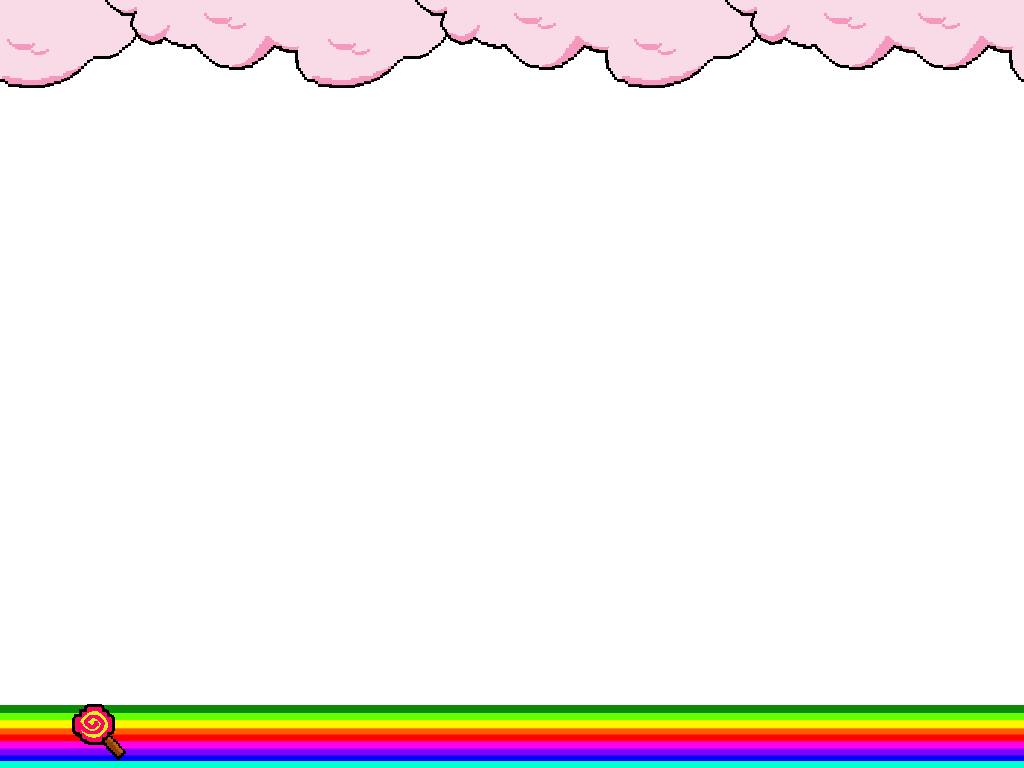
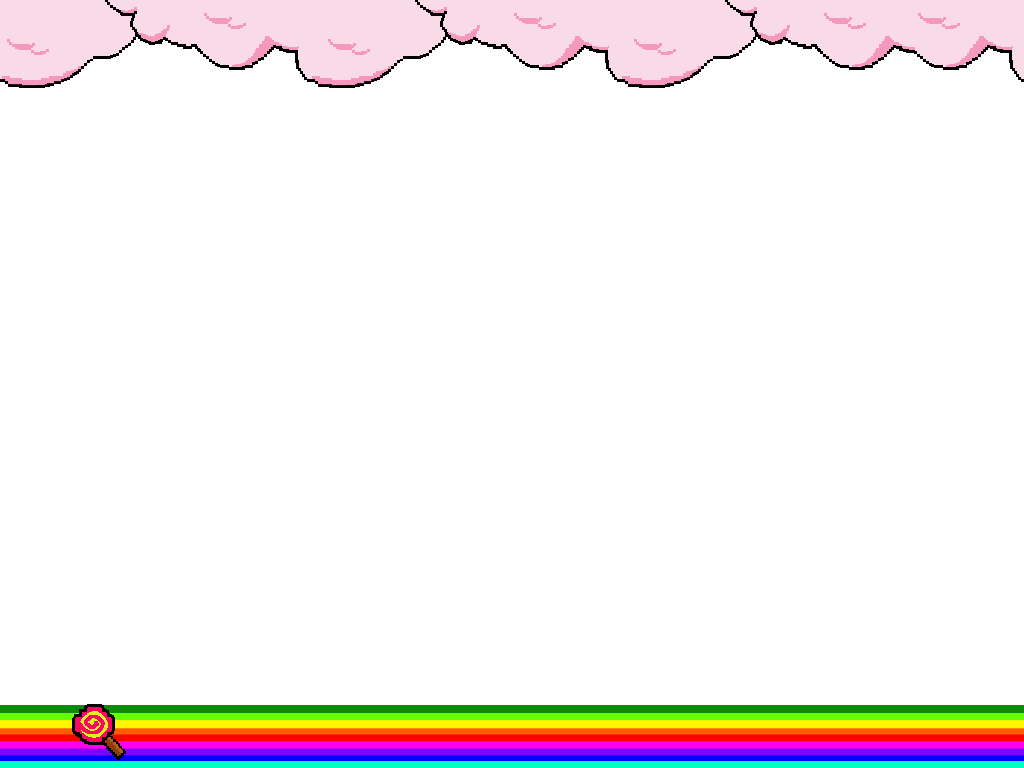
double background all the wayyyyy

Changed region(s): [[0.0, 0.9062, 1.0, 1.0], [0.8438, 0.0625, 0.875, 0.0938], [0.4375, 0.0312, 0.4688, 0.0625]]

diff --git a/app/styles/main.css b/app/styles/main.css
@@ -46,10 +46,10 @@
 	position: absolute;
 	top: 0;
 	left: 0;
-	width: 5em;
-	height: 5em;
+	width: 20em;
+	height: 20em;
 
-	background-image: url("../favicon.ico");
+	background-image: url("../images/dabs.png");
   background-repeat: no-repeat;
 }
 
@@ -107,6 +107,7 @@ padding: 0.2em 0;
   margin-left: -51.2em;
   margin-top: -28.8em;
   overflow: hidden;
+  background-color: purple;
   background: url("../images/skyAndFloor.png");
   background-size: contain;
   background-repeat: tile;
@@ -119,4 +120,21 @@ padding: 0.2em 0;
 @keyframes backgroundScroll {
 from {background-position: 0 0;}
 to {background-position: -768px 0;}
+}
+
+.GameCanvasBackground {
+  font-size: 10px;
+  position: absolute;
+  left: 50%;
+  top: 50%;
+  width: 102.4em;
+  height: 57.6em;
+  margin-left: -51.2em;
+  margin-top: -28.8em;
+  overflow: hidden;
+  background: url("http://i.imgur.com/PhFQkdl.png");
+  background-size: contain;
+  background-repeat: tile;
+  
+  animation: backgroundScroll 20s linear infinite;
 }

diff --git a/app/index.html b/app/index.html
@@ -27,6 +27,7 @@
             <p class="browsehappy">You are using an <strong>outdated</strong> browser. Please <a href="http://browsehappy.com/">upgrade your browser</a> to improve your experience.</p>
         <![endif]-->
 
+<div class="GameCanvasBackground">
         <div class="GameCanvas">
             <div class="Player"></div>
             
@@ -36,6 +37,7 @@
                 </button>
             </div>
         </div>
+</div>
 
         <!-- build:js scripts/vendor.js -->
         <!-- bower:js -->
